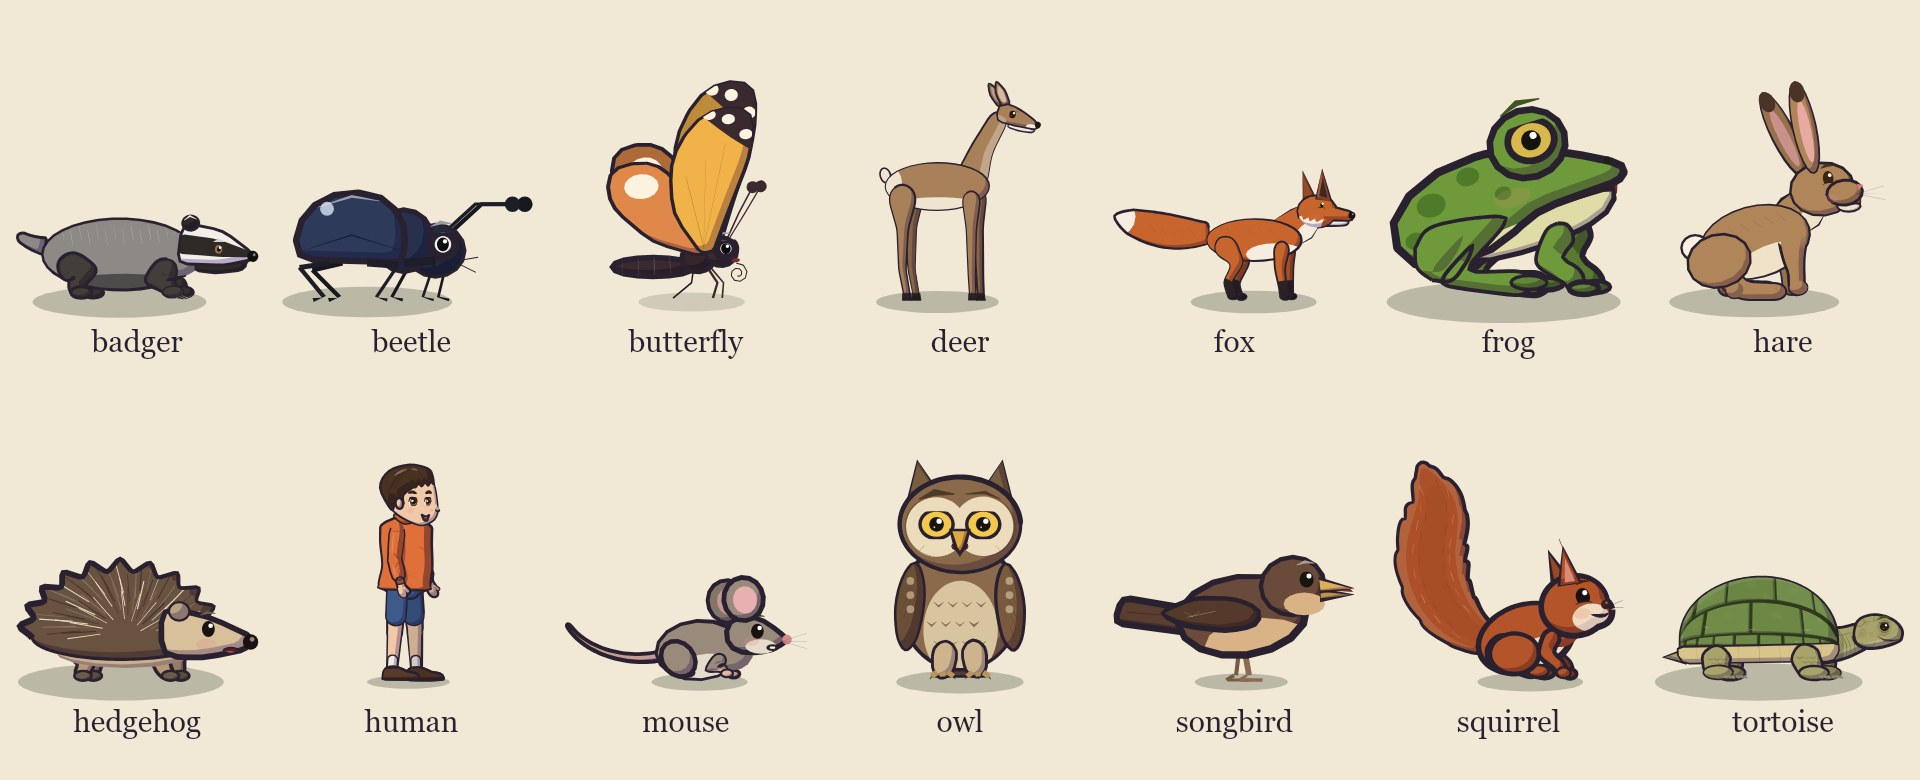
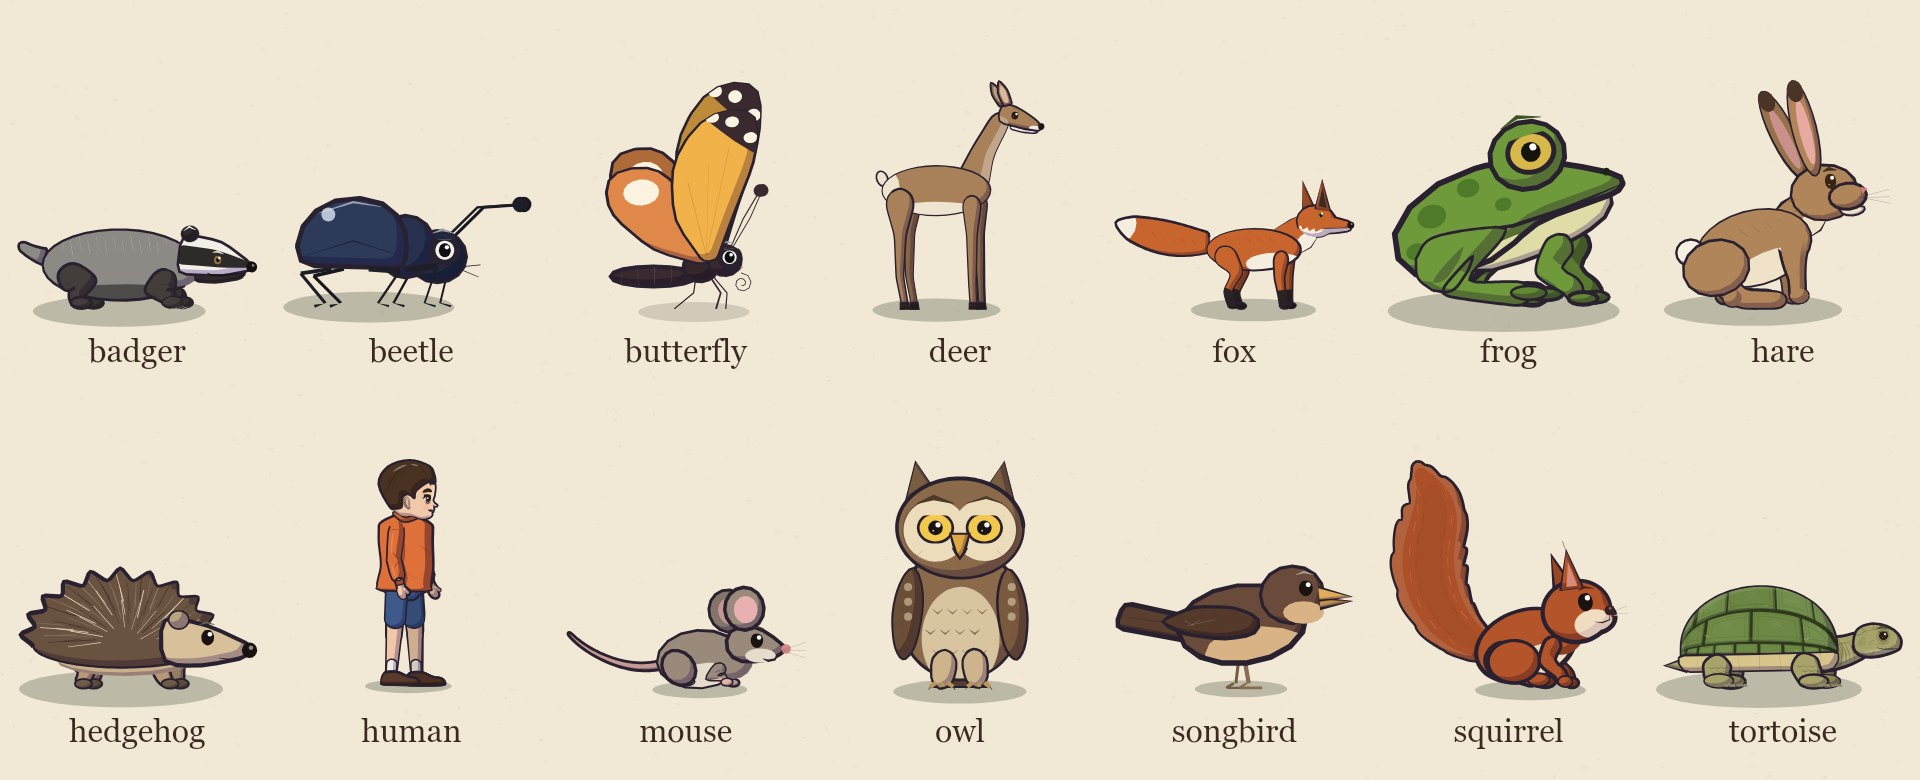
README pictures from the current engine; a closing credit on Seventy-Six Summers
- docs/images: the eight film stills and the rigs and humans sheets redrawn from the current engine (the profile
  head: one eye, the nose on the face edge, the ear mid-head); README captions to match, and a link to the site
- title beats: a sub may hold several lines ("\n"), each drawn under the last; documented and tested
- Seventy-Six Summers: the end title adds "Made with cinecode by Zakaria Fatahi · github.com/zakariaf/cinecode";
  10.4 runs 1.8 s longer to read it (3:47); the two tests that pinned the old length now say what they meant

diff --git a/README.md b/README.md
@@ -7,6 +7,8 @@ TTS); they are checked and cached on disk, so a voiced film re-renders the same 
 
 ![Seventy-Six Summers: the comet over the hill at the end of the film](docs/images/ending.jpg)
 
+Watch the films and read the docs at **[zakariaf.github.io/cinecode](https://zakariaf.github.io/cinecode/)**.
+
 ## How a film is made
 
 1. **Screenplay.** `films/<slug>/screenplay.md`: logline, characters (rig, look, voice), locations and times, a music
@@ -89,7 +91,7 @@ field.
 
 ## The demo: Seventy-Six Summers
 
-`films/seventy-six-summers/` is a 3:45 film made with cinecode: 12 scenes, 56 shots, 56 voiced lines. A
+`films/seventy-six-summers/` is a 3:47 film made with cinecode: 12 scenes, 56 shots, 56 voiced lines. A
 hundred-year-old tortoise has one day to cross the valley and keep a promise he made to a six-year-old girl the last
 time the comet came, with a squirrel riding on his shell. Its screenplay, storyboard, custom effects and voice cache
 are all in the folder, so it renders without a key:
@@ -100,10 +102,10 @@ node bin/cinecode.mjs render films/seventy-six-summers
 
 | | |
 |---|---|
-| ![The prologue: a girl and a baby tortoise watch the comet](docs/images/prologue.jpg) | ![The meadow at dawn: the owl's tree, the tortoise and the squirrel](docs/images/meadow.jpg) |
-| ![The stream at noon: the squirrel on a stepping stone, a frog on its rock](docs/images/stream.jpg) | ![The valley at golden hour, the hill far off](docs/images/valley.jpg) |
-| ![The village at sunset](docs/images/village.jpg) | ![Nell at night under the comet](docs/images/nell.jpg) |
-| ![The tortoise and Nell meet at the standing stone](docs/images/reunion.jpg) | ![The last shot: the hill under the comet, fireflies](docs/images/ending.jpg) |
+| ![The prologue: a girl and a baby tortoise watch the comet](docs/images/prologue.jpg) | ![The meadow: Fidget the squirrel teases the tortoise](docs/images/meadow.jpg) |
+| ![The stream at noon: the squirrel on a stepping stone, a frog on its rock](docs/images/stream.jpg) | ![The valley, the hill far off](docs/images/valley.jpg) |
+| ![The village at dusk: the tortoise and the squirrel at her gate](docs/images/village.jpg) | ![Nell, seventy-six years later, under the comet](docs/images/nell.jpg) |
+| ![The three of them at the standing stone](docs/images/reunion.jpg) | ![The last shot: the hill under the comet, and the title](docs/images/ending.jpg) |
 
 ## Install as a Claude Code plugin
 

diff --git a/docs/storyboard.md b/docs/storyboard.md
@@ -628,7 +628,8 @@ if the end card is short (its final chord lands about 3 s before the end and die
 { "title": "SEVENTY-SIX SUMMERS", "sub": "a film in code", "dur": 2.7, "place": "upper" }
 ```
 
-Big italic lettering in the picture for `dur` seconds (default 3). `sub` (or `subtitle`) adds a smaller line.
+Big italic lettering in the picture for `dur` seconds (default 3). `sub` (or `subtitle`) adds a smaller line; a `\n`
+in it starts another line under it (a credit, say).
 `place`: `"auto"` (default: the calmest band of the picture, centred over the subjects), `top`, `upper`, `center`
 (or `middle`), `lower`, `bottom`, or a fraction 0..1 of the frame height for the title line.
 
